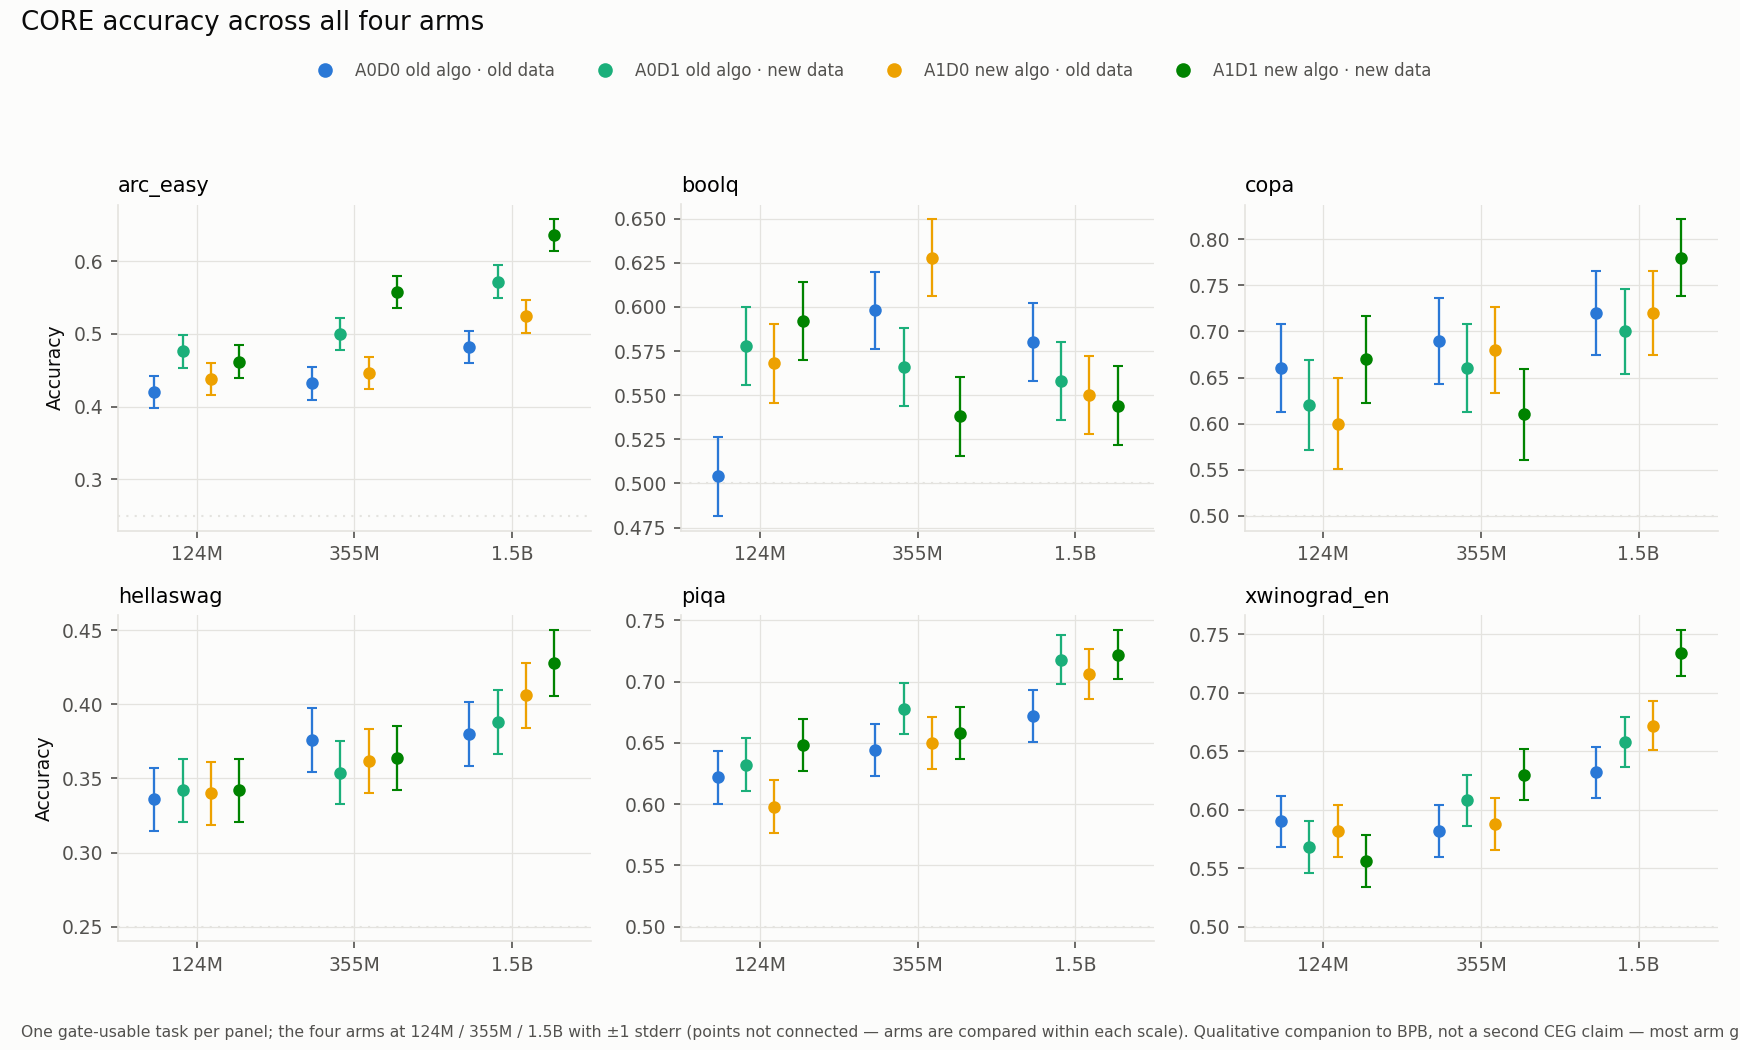
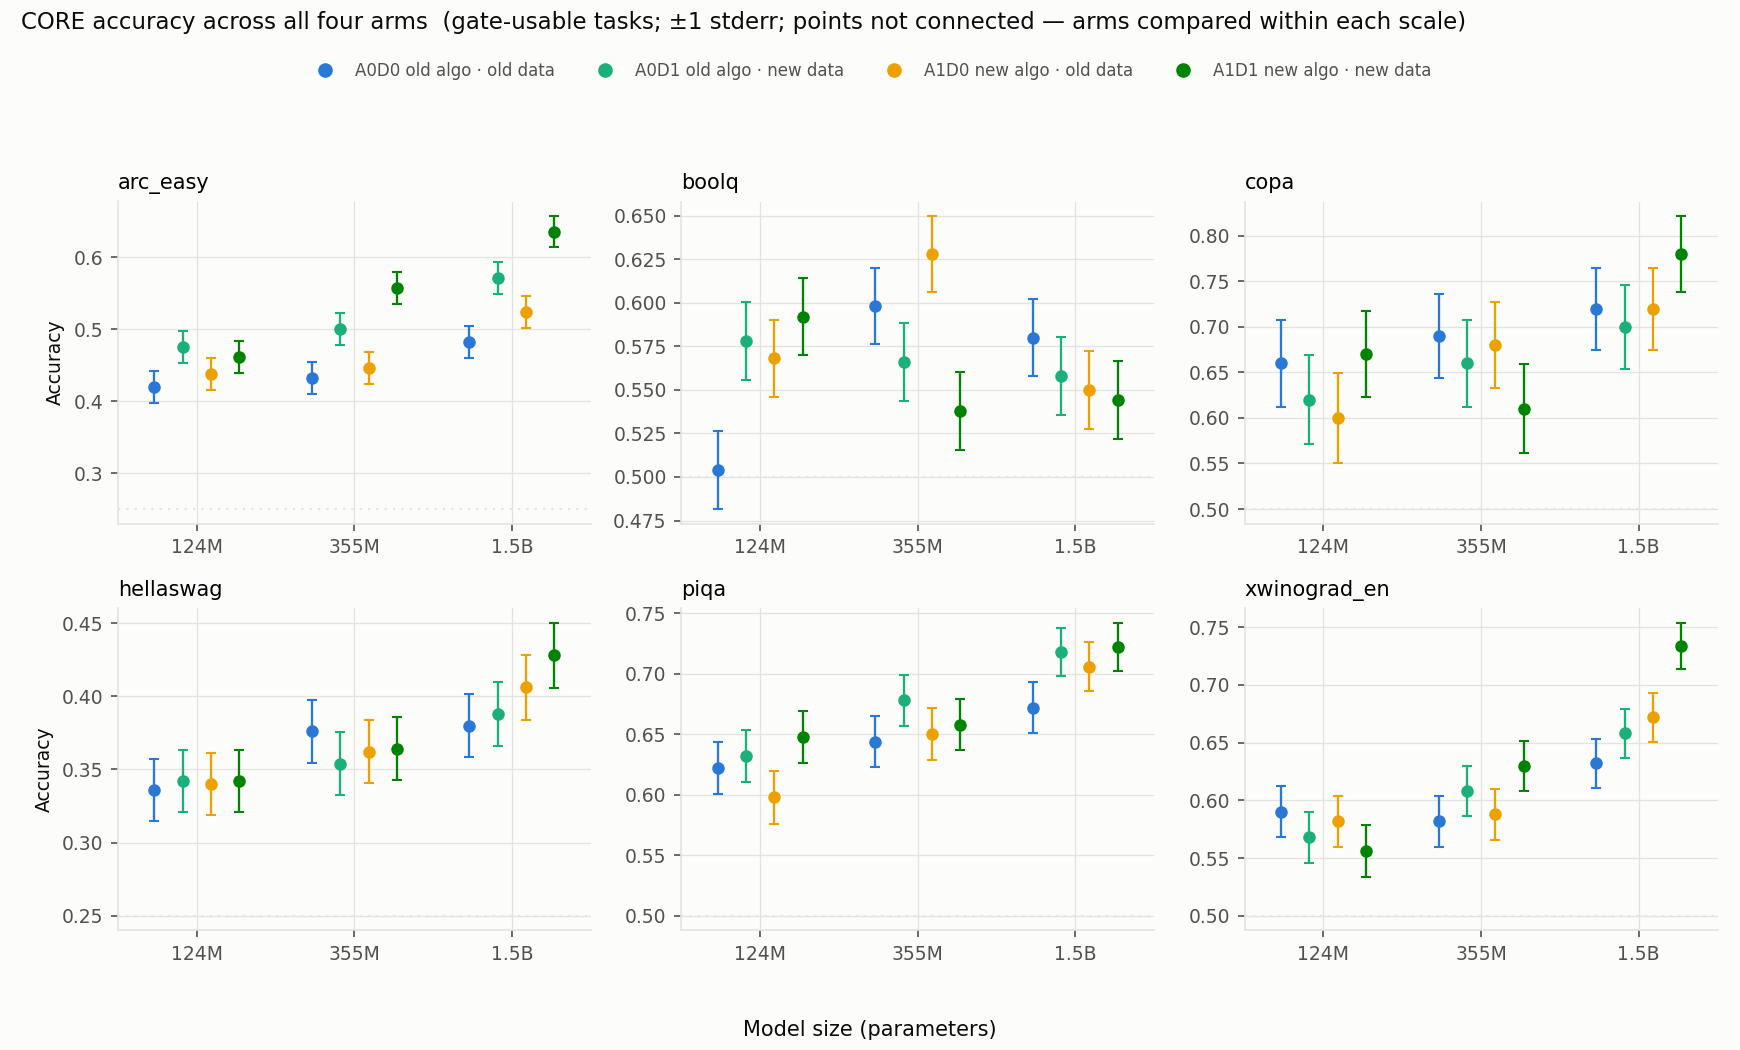
Figure QA sweep: label all axes on small-multiples (shared x-labels + clearer y-labels), fix arms_by_task supxlabel/footnote collision, clearer param-size ticks (150M/500M/1.5B) on abs CORE fig, unify 'censored' definition to one canonical wording across training-curve figures

diff --git a/analysis/plots.py b/analysis/plots.py
@@ -358,7 +358,8 @@ def core_expb_by_task(root: Path, out_path):
         axf[j].axis("off")
     axf[0].legend(frameon=False, fontsize=8, labelcolor=INK2, loc="upper right")
     for r in range(nrow):
-        axes[r, 0].set_ylabel("Δ acc vs GPT-2", fontsize=8.5)
+        axes[r, 0].set_ylabel("Δ CORE acc\nvs GPT-2", fontsize=8.5)
+    fig.supxlabel("Model size (parameters, log scale)", fontsize=10, color=INK)
     fig.suptitle("Exp B — CORE accuracy gap vs matched GPT-2, per task (data = OWT)",
                  fontsize=12.5, x=0.012, ha="left", color=INK)
     fig.tight_layout(rect=(0, 0, 1, 0.95))
@@ -410,7 +411,7 @@ def core_expb_by_task_abs(root: Path, out_path):
                         markeredgecolor=SURFACE, markeredgewidth=0.7)
         ax.set_xscale("log"); ax.set_xlim(110, 2100)
         ax.set_xticks([150, 500, 1500])
-        ax.set_xticklabels(["0.15B", "0.5B", "1.5B"], fontsize=8)
+        ax.set_xticklabels(["150M", "500M", "1.5B"], fontsize=8)
         ax.xaxis.set_minor_formatter(matplotlib.ticker.NullFormatter())
         ax.set_title(task, fontsize=9.5, loc="left")
         _style(ax)
@@ -418,7 +419,8 @@ def core_expb_by_task_abs(root: Path, out_path):
         axf[j].axis("off")
     axf[0].legend(frameon=False, fontsize=8, labelcolor=INK2, loc="best")
     for r in range(nrow):
-        axes[r, 0].set_ylabel("accuracy", fontsize=8.5)
+        axes[r, 0].set_ylabel("CORE accuracy", fontsize=8.5)
+    fig.supxlabel("Model size (parameters, log scale)", fontsize=10, color=INK)
     fig.suptitle("Exp B — CORE accuracy per task (11-task subset, ±1 stderr): each architecture vs GPT-2, data = OWT",
                  fontsize=12, x=0.012, ha="left", color=INK)
     fig.tight_layout(rect=(0, 0, 1, 0.95))
@@ -621,14 +623,11 @@ def core_arms_by_task(root: Path, out_path):
                  markersize=6, label=ARM_LABELS[a]) for a in arms]
     fig.legend(handles=lg, frameon=False, fontsize=8, labelcolor=INK2,
                loc="upper center", ncol=4, bbox_to_anchor=(0.5, 0.955))
-    fig.suptitle("CORE accuracy across all four arms", fontsize=12.5, x=0.012,
+    fig.supxlabel("Model size (parameters)", fontsize=10, color=INK)
+    fig.suptitle("CORE accuracy across all four arms  (gate-usable tasks; ±1 stderr; points not "
+                 "connected — arms compared within each scale)", fontsize=11, x=0.012,
                  ha="left", color=INK, y=0.99)
-    fig.text(0.012, 0.01,
-             "One gate-usable task per panel; the four arms at 124M / 355M / 1.5B with ±1 stderr "
-             "(points not connected — arms are compared within each scale). Qualitative companion "
-             "to BPB, not a second CEG claim — most arm gaps overlap within error.",
-             fontsize=7.5, color=INK2, va="bottom")
-    fig.tight_layout(rect=(0, 0.05 if nrow == 2 else 0.03, 1, 0.90))
+    fig.tight_layout(rect=(0, 0.02, 1, 0.90))
     fig.savefig(out_path, facecolor=SURFACE)
     plt.close(fig)
 

diff --git a/analysis/plot_training_curves_ab.py b/analysis/plot_training_curves_ab.py
@@ -26,6 +26,10 @@ ROOT = Path(__file__).resolve().parent.parent
 RES = ROOT / "results"
 BK = Path.home() / "Desktop" / "era_ladder_backup"
 
+# one canonical definition, used on every figure that shows censored arms
+CENSORED_DEF = ('“Censored” = the arm never reaches the threshold within its compute budget, '
+                'so its compute-to-threshold is a bound, not a value (hollow markers).')
+
 
 def curve(csv_path):
     rows = list(csv.DictReader(open(csv_path)))
@@ -85,9 +89,7 @@ def expb_arch():
                THR[tk], f"GPT-2 bar {THR[tk]:.3f}", title)
     fig.suptitle("Exp B architecture axis — BPB vs GPU-hours (OWT); each arch vs its size-matched GPT-2",
                  fontsize=12.5, x=0.012, ha="left", color=INK)
-    fig.text(0.012, 0.005, "“censored” = the arm never reaches the threshold within its compute "
-             "budget, so its compute-to-threshold is only bounded, not a value.",
-             fontsize=8, color=INK2, va="bottom")
+    fig.text(0.012, 0.005, CENSORED_DEF, fontsize=8, color=INK2, va="bottom")
     fig.tight_layout(rect=(0, 0.03, 1, 0.97))
     fig.savefig(RES / "expb_arch_curves.png", facecolor=SURFACE); plt.close(fig)
     print("wrote", RES / "expb_arch_curves.png")
@@ -114,9 +116,7 @@ def expb_data():
     ], thr_sm, f"GPT-2-OWT bar {thr_sm:.3f}", "SmolLM2-135M across data corpora")
     fig.suptitle("Exp B data axis — BPB vs GPU-hours; better data (RefinedWeb/DCLM) crosses the GPT-2-OWT bar",
                  fontsize=12, x=0.012, ha="left", color=INK)
-    fig.text(0.012, 0.005, "“censored” = training on that corpus never reaches the GPT-2-OWT bar within "
-             "the compute budget (that data can't match GPT-2-on-OWT at this compute).",
-             fontsize=8, color=INK2, va="bottom")
+    fig.text(0.012, 0.005, CENSORED_DEF, fontsize=8, color=INK2, va="bottom")
     fig.tight_layout(rect=(0, 0.03, 1, 0.96))
     fig.savefig(RES / "expb_data_curves.png", facecolor=SURFACE); plt.close(fig)
     print("wrote", RES / "expb_data_curves.png")

diff --git a/analysis/plot_core_era_by_task.py b/analysis/plot_core_era_by_task.py
@@ -72,6 +72,7 @@ for j in range(len(TASKS), len(axf)):
 for r in range(nrow):
     axes[r, 0].set_ylabel("accuracy", fontsize=8.5)
 axf[0].legend(frameon=False, fontsize=8, labelcolor=INK2, loc="best")
+fig.supxlabel("Training-data corpus (release year)", fontsize=10, color=INK)
 fig.suptitle("Exp A — CORE accuracy per task, old vs new algorithm across data eras (124M)",
              fontsize=12.5, x=0.012, ha="left", color=INK)
 fig.tight_layout(rect=(0, 0, 1, 0.95))
